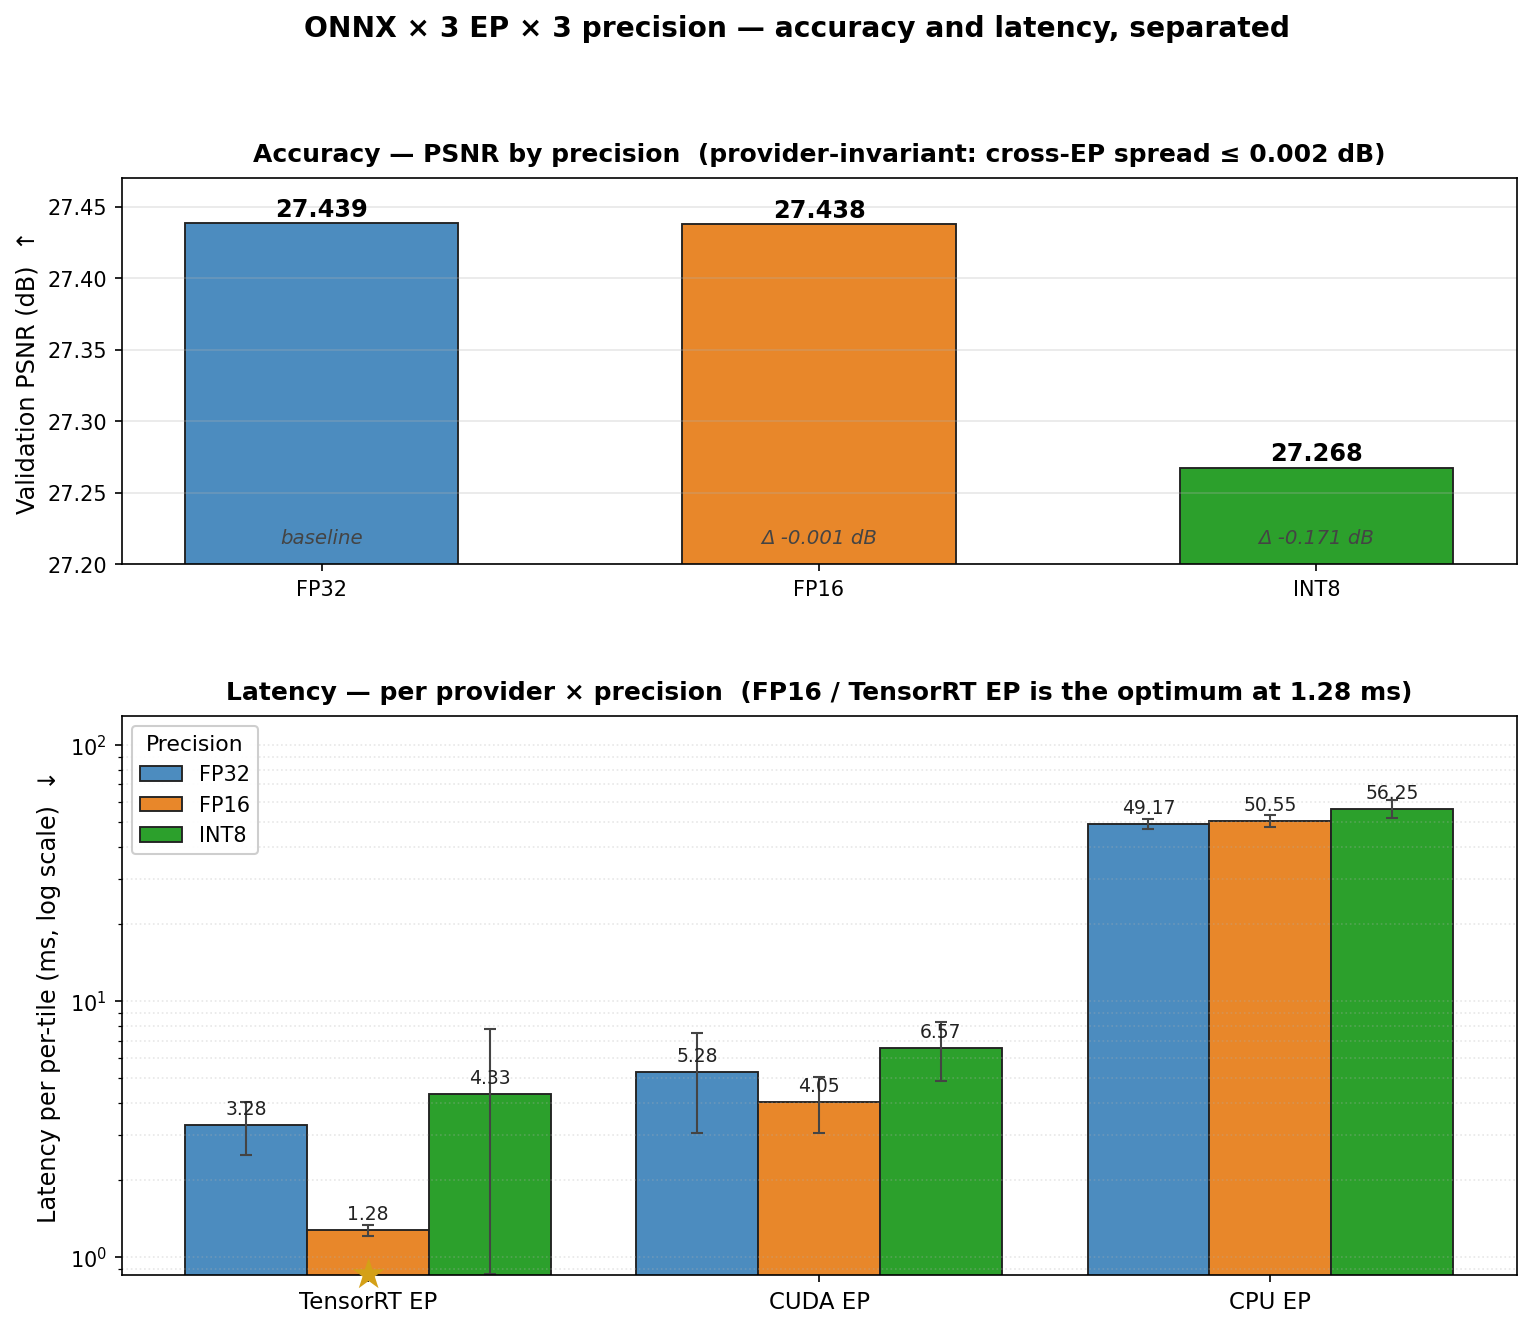
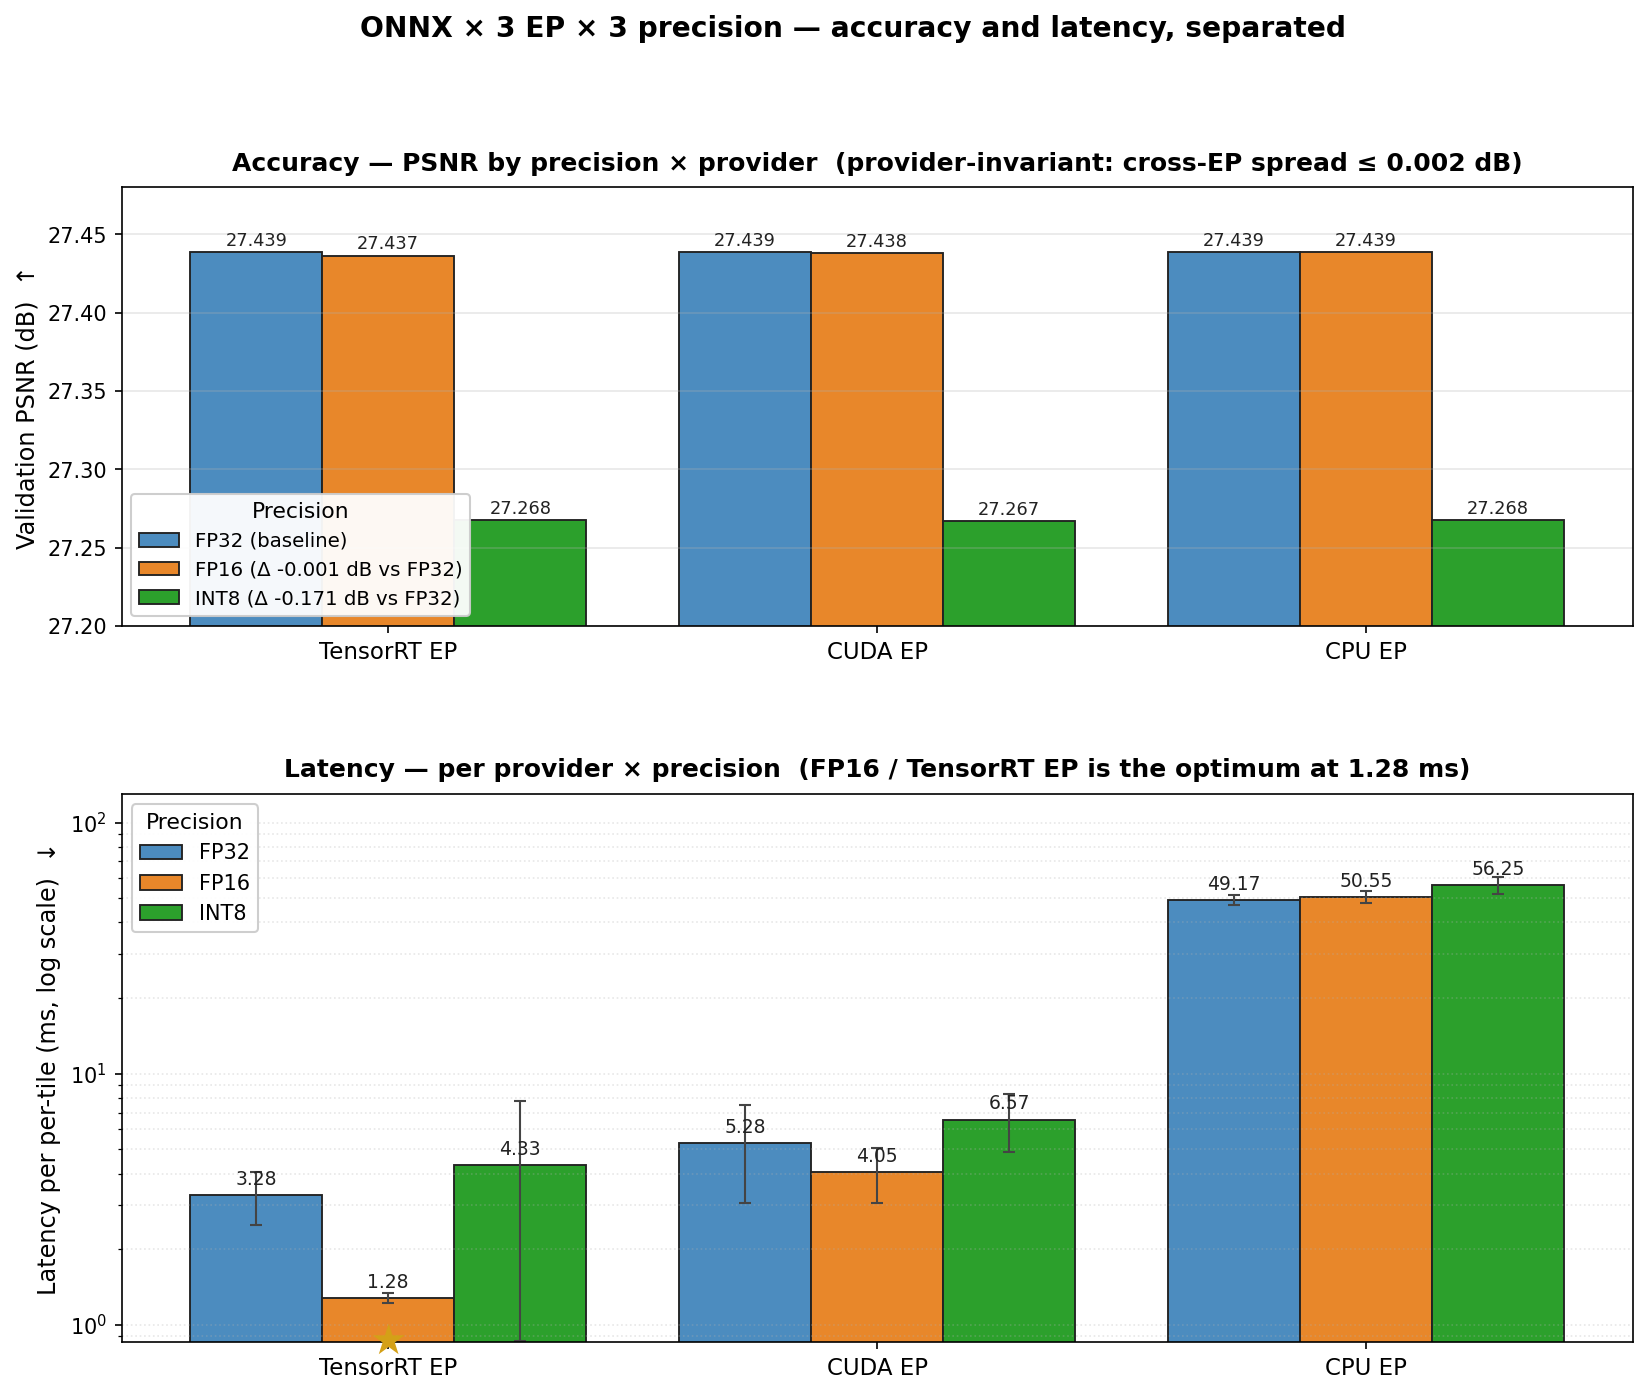
§3.2 PSNR panel: expand to 9 grouped bars (visual proof of provider-invariance)

Changed region(s): [[0.0, 0.1544, 0.9824, 0.988], [0.1228, 0.0926, 0.921, 0.1235], [0.1842, 0.0, 0.8596, 0.0309]]

diff --git a/src/deployment/section3_figures.py b/src/deployment/section3_figures.py
@@ -134,65 +134,67 @@ def make_precision_ep_breakdown(csv_path: Path, out_path: Path) -> None:
                 "latency_std": float(r["latency_ms_std"]),
             })
 
-    # PSNR is provider-invariant within rounding noise — average per precision.
+    psnr_lookup = {(r["precision"], r["provider"]): r["psnr"] for r in rows}
+    lat_lookup = {
+        (r["precision"], r["provider"]): (r["latency"], r["latency_std"])
+        for r in rows
+    }
+
     by_prec: dict[str, list[float]] = {}
     for r in rows:
         by_prec.setdefault(r["precision"], []).append(r["psnr"])
     psnr_means = {p: sum(v) / len(v) for p, v in by_prec.items()}
     psnr_spread_max = max(max(v) - min(v) for v in by_prec.values())
 
-    lat_lookup = {
-        (r["precision"], r["provider"]): (r["latency"], r["latency_std"])
-        for r in rows
-    }
+    precisions = ["FP32", "FP16", "INT8"]
+    providers = ["tensorrt", "cuda", "cpu"]
+    provider_labels = ["TensorRT EP", "CUDA EP", "CPU EP"]
+    x = np.arange(len(providers))
+    width = 0.27
 
     fig, (ax_psnr, ax_lat) = plt.subplots(
-        2, 1, figsize=(12, 9.5),
-        gridspec_kw={"height_ratios": [1.0, 1.45], "hspace": 0.32},
+        2, 1, figsize=(13, 10),
+        gridspec_kw={"height_ratios": [1.0, 1.25], "hspace": 0.34},
     )
 
-    # === Top: PSNR by precision (provider-invariant) ===
-    precisions = ["FP32", "FP16", "INT8"]
-    psnr_vals = [psnr_means[p] for p in precisions]
-    bars_psnr = ax_psnr.bar(
-        precisions, psnr_vals,
-        color=[PREC_COLOR[p] for p in precisions],
-        edgecolor="#222", linewidth=0.9, width=0.55,
-    )
-    for bar, val in zip(bars_psnr, psnr_vals):
-        ax_psnr.text(
-            bar.get_x() + bar.get_width() / 2, val + 0.005,
-            f"{val:.3f}", ha="center", fontsize=11.5, fontweight="bold",
+    # === Top: PSNR — 9 grouped bars matching bottom panel structure ===
+    fp32_ref = psnr_means["FP32"]
+    for i, prec in enumerate(precisions):
+        psnr_vals = [psnr_lookup[(prec, prov)] for prov in providers]
+        offset = (i - 1) * width
+        delta = psnr_means[prec] - fp32_ref
+        legend_label = (
+            f"{prec} (baseline)" if prec == "FP32"
+            else f"{prec} (Δ {delta:+.3f} dB vs FP32)"
         )
-
-    # ΔPSNR vs FP32 annotations under each bar
-    fp32 = psnr_means["FP32"]
-    for bar, prec in zip(bars_psnr, precisions):
-        delta = psnr_means[prec] - fp32
-        if prec == "FP32":
-            txt = "baseline"
-        else:
-            txt = f"Δ {delta:+.3f} dB"
-        ax_psnr.text(
-            bar.get_x() + bar.get_width() / 2, 27.215,
-            txt, ha="center", fontsize=9.5, color="#444", style="italic",
+        bars = ax_psnr.bar(
+            x + offset, psnr_vals, width,
+            label=legend_label,
+            color=PREC_COLOR[prec],
+            edgecolor="#222", linewidth=0.9,
         )
+        for bar, val in zip(bars, psnr_vals):
+            ax_psnr.text(
+                bar.get_x() + bar.get_width() / 2, val + 0.004,
+                f"{val:.3f}", ha="center", fontsize=8.5, color="#222",
+            )
 
-    ax_psnr.set_ylim(27.20, 27.47)
+    ax_psnr.set_ylim(27.20, 27.48)
+    ax_psnr.set_xticks(x)
+    ax_psnr.set_xticklabels(provider_labels, fontsize=11)
     ax_psnr.set_ylabel("Validation PSNR (dB)  ↑", fontsize=11.5)
     ax_psnr.set_title(
-        "Accuracy — PSNR by precision  "
+        "Accuracy — PSNR by precision × provider  "
         f"(provider-invariant: cross-EP spread ≤ {psnr_spread_max:.3f} dB)",
         fontsize=12, fontweight="bold", pad=8,
     )
+    ax_psnr.legend(
+        title="Precision", loc="lower left",
+        fontsize=9.5, title_fontsize=10.5, framealpha=0.95,
+    )
     ax_psnr.grid(axis="y", alpha=0.3)
 
-    # === Bottom: latency, grouped bars (x = EP, hue = precision) ===
-    providers = ["tensorrt", "cuda", "cpu"]
-    provider_labels = ["TensorRT EP", "CUDA EP", "CPU EP"]
-    width = 0.27
-    x = np.arange(len(providers))
-
+    # === Bottom: latency — 9 grouped bars (same structure) ===
     for i, prec in enumerate(precisions):
         lat_vals = [lat_lookup[(prec, prov)][0] for prov in providers]
         lat_stds = [lat_lookup[(prec, prov)][1] for prov in providers]
@@ -225,10 +227,9 @@ def make_precision_ep_breakdown(csv_path: Path, out_path: Path) -> None:
     )
     ax_lat.grid(axis="y", which="both", alpha=0.3, linestyle=":")
 
-    # Star-mark the FP16/TRT optimum bar
-    fp16_trt_x = 0 + 0 * width  # FP16 is the middle bar (i=1, offset=0)
+    # Star-mark the FP16/TRT optimum bar (FP16 is the middle bar at x=0)
     ax_lat.text(
-        fp16_trt_x, 1.28 / 1.5, "★",
+        0.0, 1.28 / 1.5, "★",
         ha="center", va="center", fontsize=20, color="#d4a017",
         zorder=5,
     )